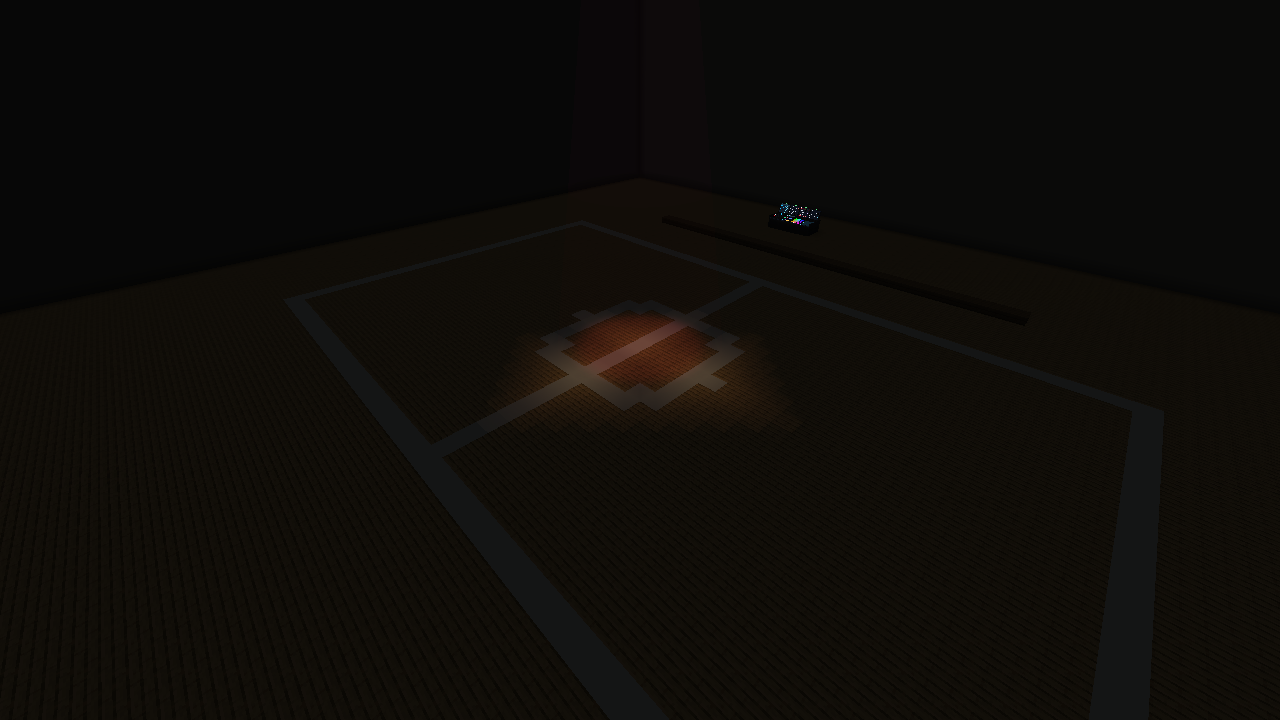
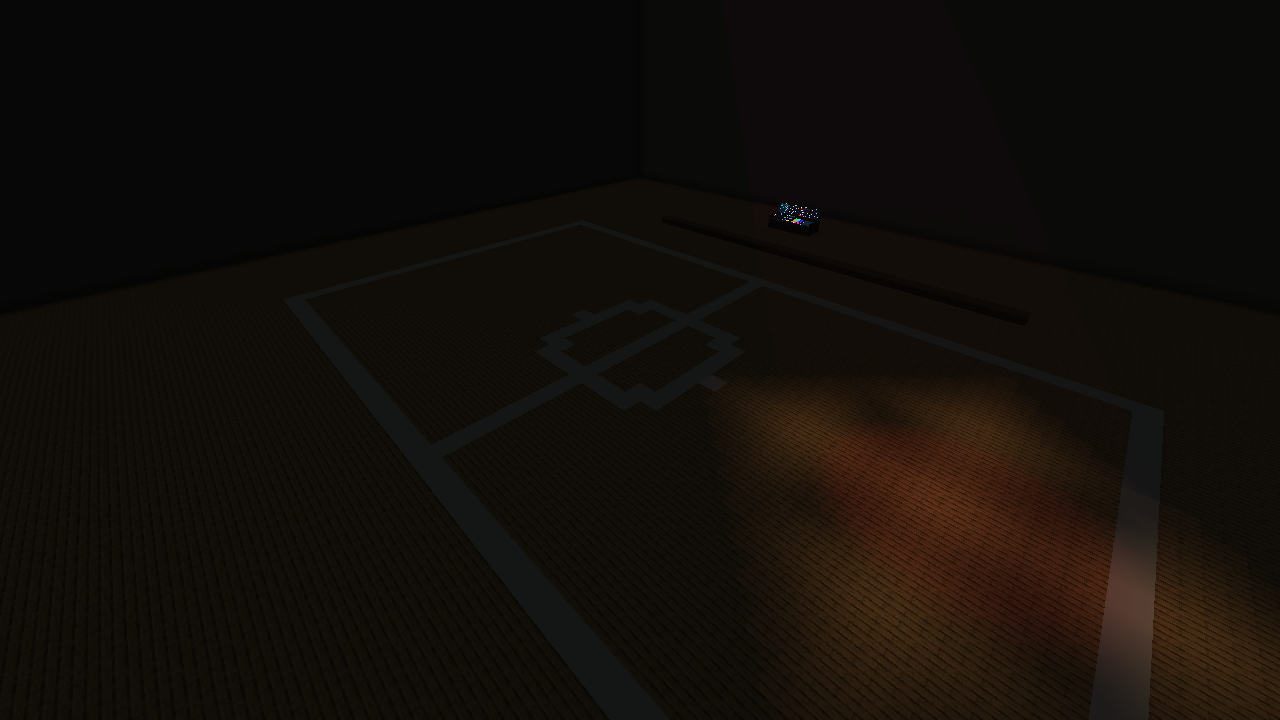
Turn a linked floodlight by its console group's pan and tilt, and move it with the group's motion
Pan and tilt turn it from its own aim, with the console's default aim (pan 0, tilt 35)
leaving it where it was aimed; the group's sway, circle and follow motions move it as they
move a stage light. Light blocks follow pan and tilt, not motion.

Claude-Session: https://claude.ai/code/session_01LqybxhWWCN1omuGBwLCHna

Changed region(s): [[0.5938, 0.55, 1.0, 1.0], [0.4062, 0.4278, 0.5938, 0.5806]]

diff --git a/src/main/java/io/github/jinsh1228/largelights/client/FloodlightRenderer.java b/src/main/java/io/github/jinsh1228/largelights/client/FloodlightRenderer.java
@@ -30,6 +30,7 @@ import net.minecraft.client.renderer.blockentity.BlockEntityRendererProvider;
 import net.minecraft.client.renderer.texture.OverlayTexture;
 import net.minecraft.core.Direction;
 import net.minecraft.util.Mth;
+import net.minecraft.world.entity.player.Player;
 import net.minecraft.world.level.Level;
 import net.minecraft.world.phys.AABB;
 import net.minecraft.world.phys.HitResult;
@@ -50,6 +51,7 @@ public final class FloodlightRenderer implements BlockEntityRenderer<FloodlightB
     private static final int EDGES = 16;
     private static final int STEPS = 8;
     private static final Map<FloodlightBlock.Entity, Trace> TRACES = new WeakHashMap<>();
+    private static final Map<FloodlightBlock.Entity, AimMotion> MOTION = new WeakHashMap<>();
 
     FloodlightRenderer(BlockEntityRendererProvider.Context context) {
     }
@@ -67,7 +69,15 @@ public final class FloodlightRenderer implements BlockEntityRenderer<FloodlightB
         Direction facing = lamp.getBlockState().getValue(FloodlightBlock.FACING);
         // Local +Y away from what it hangs on.
         Matrix4f mount = new Matrix4f(model).translate(0.5f, 0.5f, 0.5f).rotate(facing.getRotation());
-        Matrix4f local = Aim.head(lamp.yaw, lamp.pitch);
+        // Linked, the console's group sets all of it; unlinked, redstone sets how bright (FloodlightBlock.Entity.beam).
+        FloodlightBlock.Entity.Beam beam = lamp.beam();
+        LightingConsoleBlock.Entity console = beam.console();
+        double seconds = (level.getGameTime() + (double) partialTick) / 20;
+        if (console != null) {
+            seconds = AnalysisPlayback.apply(console, seconds);
+        }
+        float[] aim = aim(lamp, beam, seconds, partialTick);
+        Matrix4f local = Aim.head(aim[0], aim[1]);
         Matrix4f head = new Matrix4f(model).mul(local);
 
         VertexConsumer body = buffers.getBuffer(BODY);
@@ -107,14 +117,10 @@ public final class FloodlightRenderer implements BlockEntityRenderer<FloodlightB
             return;
         }
 
-        // Linked, the console's group sets all of it; unlinked, redstone sets how bright (FloodlightBlock.Entity.beam).
-        FloodlightBlock.Entity.Beam beam = lamp.beam();
         float strength = beam.strength();
         int color = WARM_WHITE;
-        LightingConsoleBlock.Entity console = beam.console();
         if (console != null) {
             LightingSettings.Group group = beam.group();
-            double seconds = AnalysisPlayback.apply(console, (level.getGameTime() + (double) partialTick) / 20);
             boolean signal = level.getGameTime() - console.signalAt < 30;
             if (group.audio && console.hasAudio && signal) {
                 float energy = switch (group.audioBand) {
@@ -164,6 +170,46 @@ public final class FloodlightRenderer implements BlockEntityRenderer<FloodlightB
                 rays, model, effects, kind.radius);
         cone(effects.getBuffer(LightingRenderer.beamType()), model, trace, origin, right, up,
                 stadium ? 0.85f : 0.36f, stadium ? 0.55f : 0.36f, color, strength * kind.haze);
+    }
+
+    /**
+     * Where the head points this frame: its aim with the console's pan and tilt (Beam), and, linked, its group's
+     * motion as a stage light's (a sway, a circle, or following the target player), eased as a stage light's head.
+     */
+    private static float[] aim(FloodlightBlock.Entity lamp, FloodlightBlock.Entity.Beam beam, double seconds,
+                               float partialTick) {
+        float yaw = beam.yaw();
+        float pitch = beam.pitch();
+        boolean hold = false;
+        LightingConsoleBlock.Entity console = beam.console();
+        LightingSettings.Group group = beam.group();
+        if (console != null && group != null) {
+            double phase = (group.audio && console.audioSource != null ? console.motionPhase : seconds) * group.speed
+                    + lamp.order * 0.35;
+            if (group.motion == 1) {
+                yaw += (float) Math.sin(phase) * 55;
+            } else if (group.motion == 2) {
+                yaw += (float) Math.sin(phase) * 48;
+                pitch += (float) Math.cos(phase) * 22;
+            } else if (group.motion == 3) {
+                // Following: straight at the target player; with none, held where it is.
+                hold = true;
+                Player target = group.target == null ? null : lamp.getLevel().getPlayerByUUID(group.target);
+                if (target != null) {
+                    Vec3 body = target.getPosition(partialTick).add(0, target.getBbHeight() * 0.5, 0);
+                    Vec3 toward = SableCompat.toRenderBlockSpace(lamp.getLevel(), lamp.getBlockPos(), body)
+                            .subtract(Vec3.atCenterOf(lamp.getBlockPos()));
+                    if (toward.lengthSqr() > 0.25) {
+                        float[] at = Aim.toward(toward, yaw);
+                        yaw = at[0];
+                        pitch = at[1];
+                        hold = false;
+                    }
+                }
+            }
+        }
+        return MOTION.computeIfAbsent(lamp, ignored -> new AimMotion())
+                .update(seconds, yaw, Mth.clamp(pitch, Aim.MIN_PITCH, Aim.MAX_PITCH), hold);
     }
 
     /**

diff --git a/src/main/java/io/github/jinsh1228/largelights/FloodlightBlock.java b/src/main/java/io/github/jinsh1228/largelights/FloodlightBlock.java
@@ -210,10 +210,11 @@ public class FloodlightBlock extends DirectionalBlock implements EntityBlock, IW
 
         /**
          * How it shines now: from its console's group if linked, from redstone if not. Strength is 0 to 1 and
-         * leaves out the console's music and video (the renderer adds those).
+         * leaves out the console's music and video, and yaw and pitch its group's motion (the renderer adds those):
+         * they are its own aim turned by the group's pan and tilt.
          */
         public record Beam(@Nullable LightingConsoleBlock.Entity console, @Nullable LightingSettings.Group group,
-                           float strength, float spread, float range) {
+                           float strength, float spread, float range, float yaw, float pitch) {
         }
 
         public Beam beam() {
@@ -221,12 +222,13 @@ public class FloodlightBlock extends DirectionalBlock implements EntityBlock, IW
             if (owner != null) {
                 LightingSettings.Group settings = owner.settings.groups[group];
                 float strength = owner.formed && owner.settings.enabled ? owner.settings.master * settings.brightness : 0;
+                float[] aim = Aim.offset(yaw, pitch, settings.pan, settings.tilt);
                 return new Beam(owner, settings, Mth.clamp(strength, 0, 1), Mth.clamp(settings.spread, 1, kind().maxSpread()),
-                        Mth.clamp(settings.range, 2, LightingSettings.MAX_RANGE));
+                        Mth.clamp(settings.range, 2, LightingSettings.MAX_RANGE), aim[0], aim[1]);
             }
             // Linked to a console that isn't here (unloaded): dark till it is.
             float strength = console != null ? 0 : getBlockState().getValue(POWER) / 15f;
-            return new Beam(null, null, strength, spreadDegrees(), kind().range);
+            return new Beam(null, null, strength, spreadDegrees(), kind().range, yaw, pitch);
         }
 
         public void aim(float yaw, float pitch) {
@@ -259,9 +261,9 @@ public class FloodlightBlock extends DirectionalBlock implements EntityBlock, IW
                     LightingText.number(Math.round(beam.spread()) + "°"),
                     LightingText.number(Math.round(beam.range()) + " m")).withColor(LightingText.TEXT));
             tooltip.add(Component.translatable("create_large_lights.tooltip.aim",
-                    // As a compass reads: north 0°, east 90°.
-                    LightingText.number(Math.floorMod(Math.round(yaw + 180), 360) + "°"),
-                    LightingText.number(Math.round(-pitch) + "°")).withColor(LightingText.TEXT));
+                    // As a compass reads: north 0°, east 90°. With the console's pan and tilt, not its motion.
+                    LightingText.number(Math.floorMod(Math.round(beam.yaw() + 180), 360) + "°"),
+                    LightingText.number(Math.round(-beam.pitch()) + "°")).withColor(LightingText.TEXT));
             tooltip.add(Component.translatable("create_large_lights.tooltip.real_light",
                     LightingText.number(RealLight.lightLevel(beam.strength())),
                     LightingText.number(lights.size())).withColor(LightingText.TEXT));

diff --git a/src/demo/java/io/github/jinsh1228/largelights/dev/FloodlightDemo.java b/src/demo/java/io/github/jinsh1228/largelights/dev/FloodlightDemo.java
@@ -228,6 +228,8 @@ public final class FloodlightDemo {
             return;
         }
         console = console.controller();
+        // The unlinked floodlights go dark: the linked one shines on in the console's red, its light blocks its own.
+        power(level, false);
         FloodlightBlock.Entity center = fixture(level, CENTER_LIGHT);
         check(console.bind(center, 0), "the centre floodlight linked to the console's group 1");
         var group = console.settings.groups[0];
@@ -239,6 +241,9 @@ public final class FloodlightDemo {
         group.colors[0] = 0xFF3040;
         group.colorCycle = false;
         group.audio = false;
+        // Turned 90° right of its aim (straight down, so it faces west) and 30° up from it.
+        group.pan = 90;
+        group.tilt = Aim.NEUTRAL_TILT - 30;
         console.changed();
     }
 
@@ -258,12 +263,20 @@ public final class FloodlightDemo {
             var state = level.getBlockState(BlockPos.of(packed));
             levels &= state.is(Blocks.LIGHT) && state.getValue(net.minecraft.world.level.block.LightBlock.LEVEL) == expected;
         }
-        check(levels, "its {} light blocks are all at level {}, as the console's brightness", lights.length, expected);
+        check(levels && lights.length > 0, "its {} light blocks are all at level {}, as the console's brightness",
+                lights.length, expected);
+        check(Math.abs(beam.pitch() - 60) < 1e-3 && Math.abs(Math.abs(beam.yaw()) - 90) < 1e-3,
+                "aimed by the console's pan and tilt: yaw {}, pitch {}", beam.yaw(), beam.pitch());
+        double x = 0;
+        for (long packed : lights) {
+            x += BlockPos.of(packed).getX();
+        }
+        x /= Math.max(1, lights.length);
+        // 27 blocks up, 60° down, facing west: the light falls about 16 blocks west of straight below.
+        check(x < -10 && x > -22, "its light falls west of it, around x {}", Math.round(x));
         float spread = center.beam().spread();
         wrench(level, CENTER_LIGHT);
         check(center.beam().spread() == spread, "the wrench leaves a linked floodlight's beam width to the console");
-        // Left off for the last shot: the unlinked floodlights go dark, the linked one shines on in the console's red.
-        power(level, false);
         check(center.beam().strength() > 0, "a linked floodlight ignores redstone");
         view(server, new Vec3(-14.5, FLOOR + 14, -14.5), new Vec3(0.5, FLOOR, 0.5));
     }

diff --git a/src/main/java/io/github/jinsh1228/largelights/RealLight.java b/src/main/java/io/github/jinsh1228/largelights/RealLight.java
@@ -82,7 +82,8 @@ public final class RealLight {
         boolean carried = !SableCompat.toWorld(level, pos, center).equals(center);
         int brightness = FloodlightConfig.REAL_LIGHT.get() && !carried ? lightLevel(beam.strength()) : 0;
         int spacing = FloodlightConfig.SPACING.get();
-        int signature = Objects.hash(brightness, light.yaw, light.pitch, beam.spread(), beam.range(), spacing,
+        // The aim with the console's pan and tilt; a group's motion moves the beam, not the light blocks.
+        int signature = Objects.hash(brightness, beam.yaw(), beam.pitch(), beam.spread(), beam.range(), spacing,
                 FloodlightConfig.MAX_LIGHTS.get());
         long now = level.getGameTime();
         if (signature == light.lightSignature && now - light.lightUpdated < REFRESH) {
@@ -100,8 +101,8 @@ public final class RealLight {
     /** Where the beam wants light blocks: air just off the faces it falls on, one in each spacing-sized cell. */
     private static Long2LongOpenHashMap footprint(Level level, BlockPos pos, FloodlightBlock.Entity light,
                                                   FloodlightBlock.Entity.Beam beam, int spacing, int max) {
-        var head = Aim.head(light.yaw, light.pitch);
-        Vec3 forward = Aim.direction(light.yaw, light.pitch);
+        var head = Aim.head(beam.yaw(), beam.pitch());
+        Vec3 forward = Aim.direction(beam.yaw(), beam.pitch());
         org.joml.Vector3f r = head.transformDirection(new org.joml.Vector3f(1, 0, 0)).normalize();
         org.joml.Vector3f u = head.transformDirection(new org.joml.Vector3f(0, 1, 0)).normalize();
         Vec3 right = new Vec3(r.x, r.y, r.z);

diff --git a/src/main/java/io/github/jinsh1228/largelights/Aim.java b/src/main/java/io/github/jinsh1228/largelights/Aim.java
@@ -14,6 +14,11 @@ import net.minecraft.world.phys.Vec3;
 public final class Aim {
     public static final float MIN_PITCH = -90;
     public static final float MAX_PITCH = 90;
+    /**
+     * A lighting console group's tilt that leaves a floodlight where it was aimed: the console's default (a stage
+     * light's 35° down), so that linking one to a group changes nothing till the group's aim is moved.
+     */
+    public static final float NEUTRAL_TILT = 35;
 
     private Aim() {
     }
@@ -28,6 +33,14 @@ public final class Aim {
     public static Vec3 direction(float yaw, float pitch) {
         Vector3f forward = head(yaw, pitch).transformDirection(new Vector3f(0, 0, 1));
         return new Vec3(forward.x, forward.y, forward.z).normalize();
+    }
+
+    /**
+     * {@code yaw} and {@code pitch} turned by a console group's {@code pan} (positive turns right, seen from above)
+     * and {@code tilt} (positive turns down), both from the group's neutral aim (pan 0, NEUTRAL_TILT).
+     */
+    public static float[] offset(float yaw, float pitch, float pan, float tilt) {
+        return new float[]{Mth.wrapDegrees(yaw + pan), Mth.clamp(pitch + tilt - NEUTRAL_TILT, MIN_PITCH, MAX_PITCH)};
     }
 
     /** The yaw and pitch that point along {@code direction}; straight up or down keeps {@code fallbackYaw}. */

diff --git a/src/main/java/io/github/jinsh1228/largelights/client/AimMotion.java b/src/main/java/io/github/jinsh1228/largelights/client/AimMotion.java
@@ -1,0 +1,26 @@
+package io.github.jinsh1228.largelights.client;
+
+import net.minecraft.util.Mth;
+
+/**
+ * A floodlight head easing toward where it should point, as a Create: Media Systems stage light's does
+ * (LightingMotion): the shorter way round in yaw, and held still while it has nowhere to go.
+ */
+final class AimMotion {
+    private double time = Double.NaN;
+    private float yaw;
+    private float pitch;
+
+    float[] update(double seconds, float desiredYaw, float desiredPitch, boolean hold) {
+        if (!Double.isFinite(time) || seconds < time) {
+            yaw = desiredYaw;
+            pitch = desiredPitch;
+        } else if (!hold) {
+            double weight = 1 - Math.exp(-Math.min(seconds - time, 0.5) * 9);
+            yaw += Mth.wrapDegrees(desiredYaw - yaw) * (float) weight;
+            pitch += (desiredPitch - pitch) * (float) weight;
+        }
+        time = seconds;
+        return new float[]{Mth.wrapDegrees(yaw), pitch};
+    }
+}

diff --git a/src/test/java/io/github/jinsh1228/largelights/AimTest.java b/src/test/java/io/github/jinsh1228/largelights/AimTest.java
@@ -47,4 +47,24 @@ class AimTest {
         assertEquals(kind.spread(0), kind.spread(kind.spreads()));
         assertEquals(kind.spread(kind.spreads() - 1), kind.spread(-1));
     }
+
+    @Test
+    void theConsolesDefaultAimLeavesALightWhereItWasAimed() {
+        float[] aim = Aim.offset(30, 50, 0, Aim.NEUTRAL_TILT);
+        assertEquals(30, aim[0]);
+        assertEquals(50, aim[1]);
+    }
+
+    @Test
+    void panTurnsRightAndTiltDown() {
+        float[] aim = Aim.offset(170, 80, 20, Aim.NEUTRAL_TILT + 20);
+        assertEquals(-170, aim[0], 1e-4);
+        // Down no further than straight down.
+        assertEquals(90, aim[1]);
+        Vec3 before = Aim.direction(0, 0);
+        Vec3 after = Aim.direction(Aim.offset(0, 0, 90, Aim.NEUTRAL_TILT)[0], 0);
+        // Facing south, turning right (seen from above) faces west.
+        assertClose(new Vec3(0, 0, 1), before);
+        assertClose(new Vec3(-1, 0, 0), after);
+    }
 }
